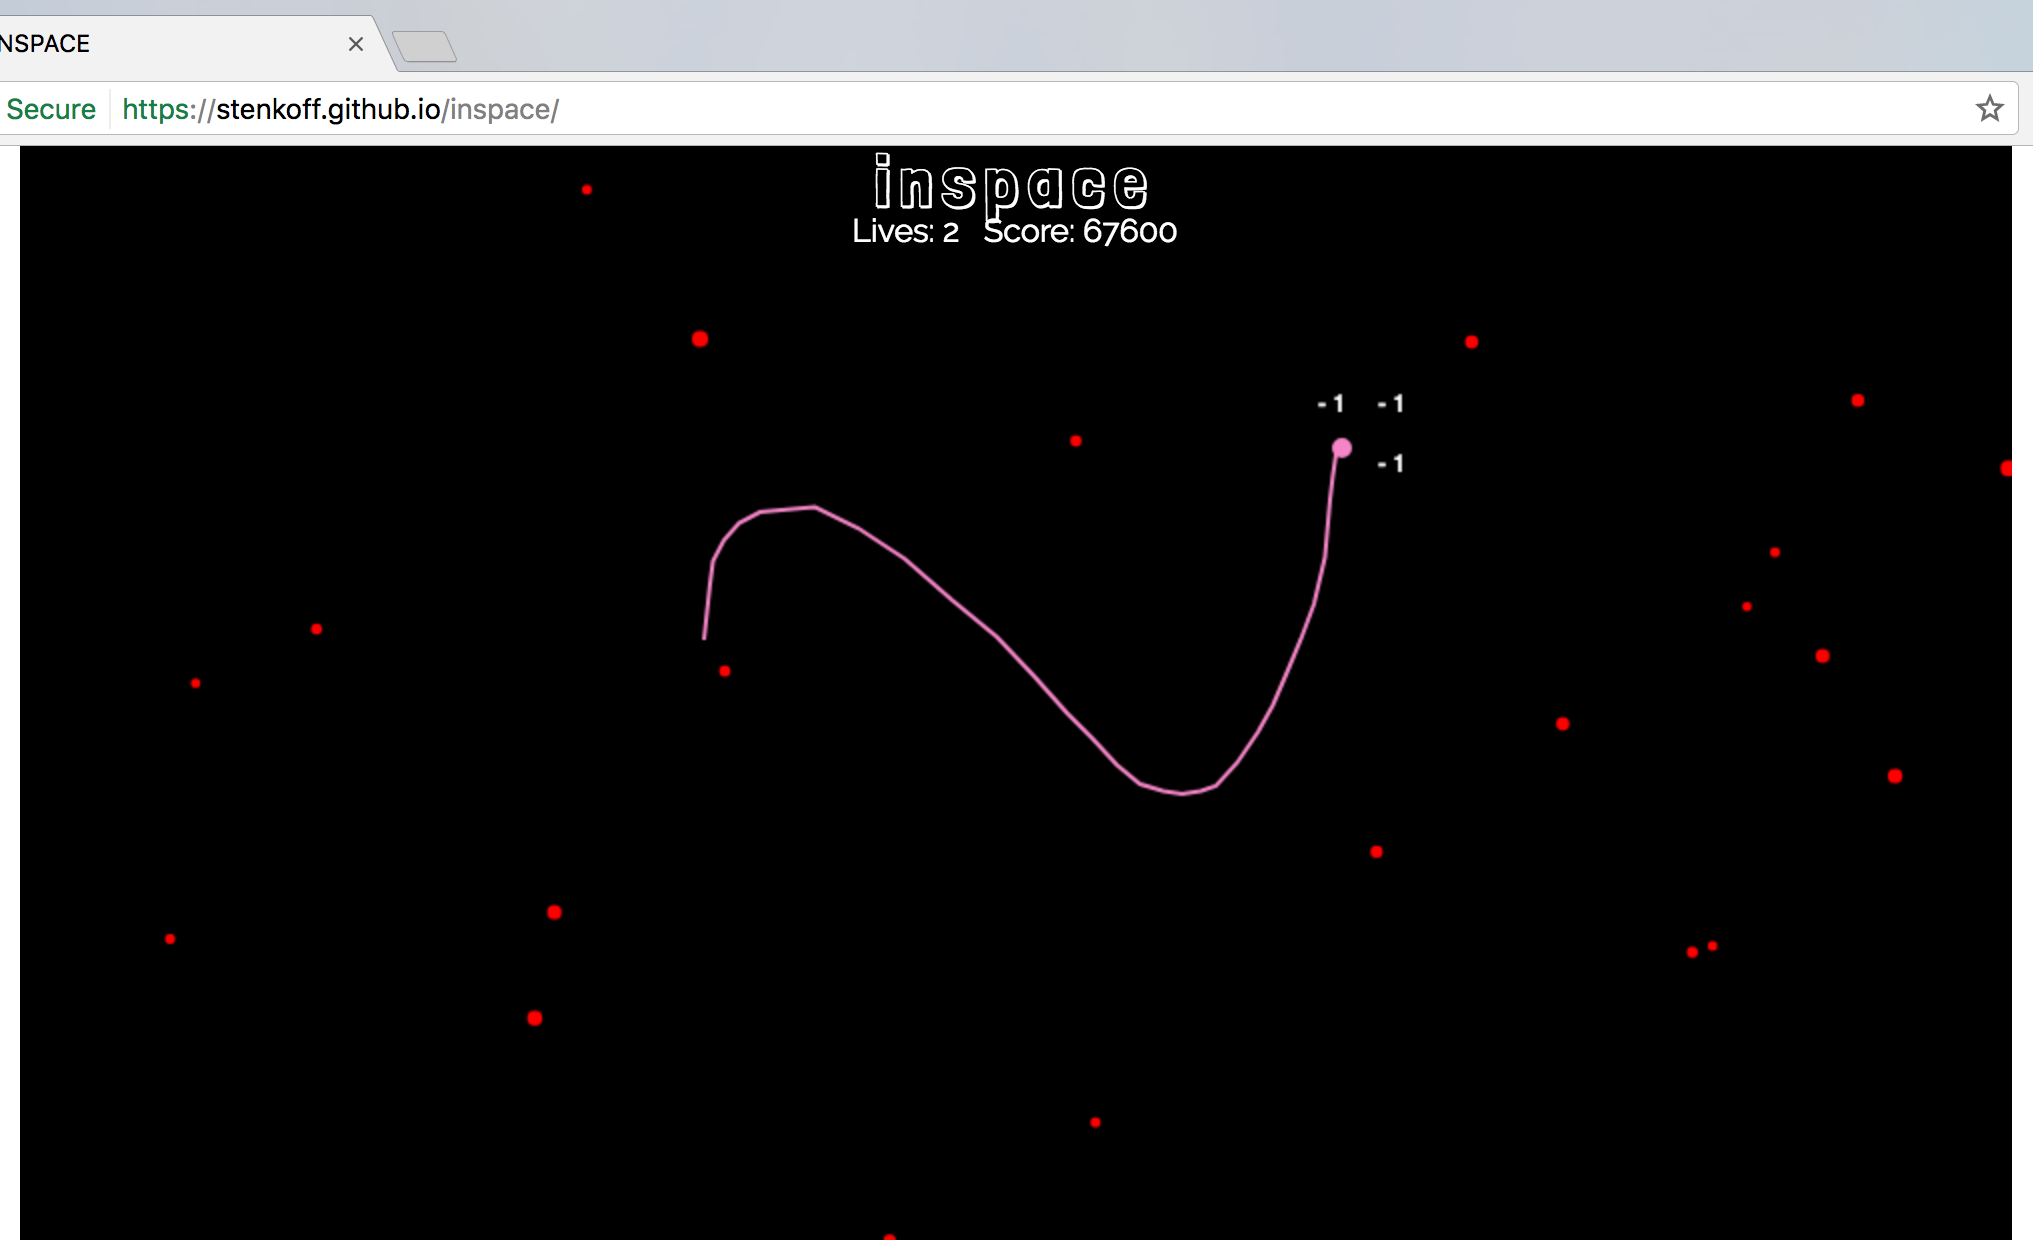
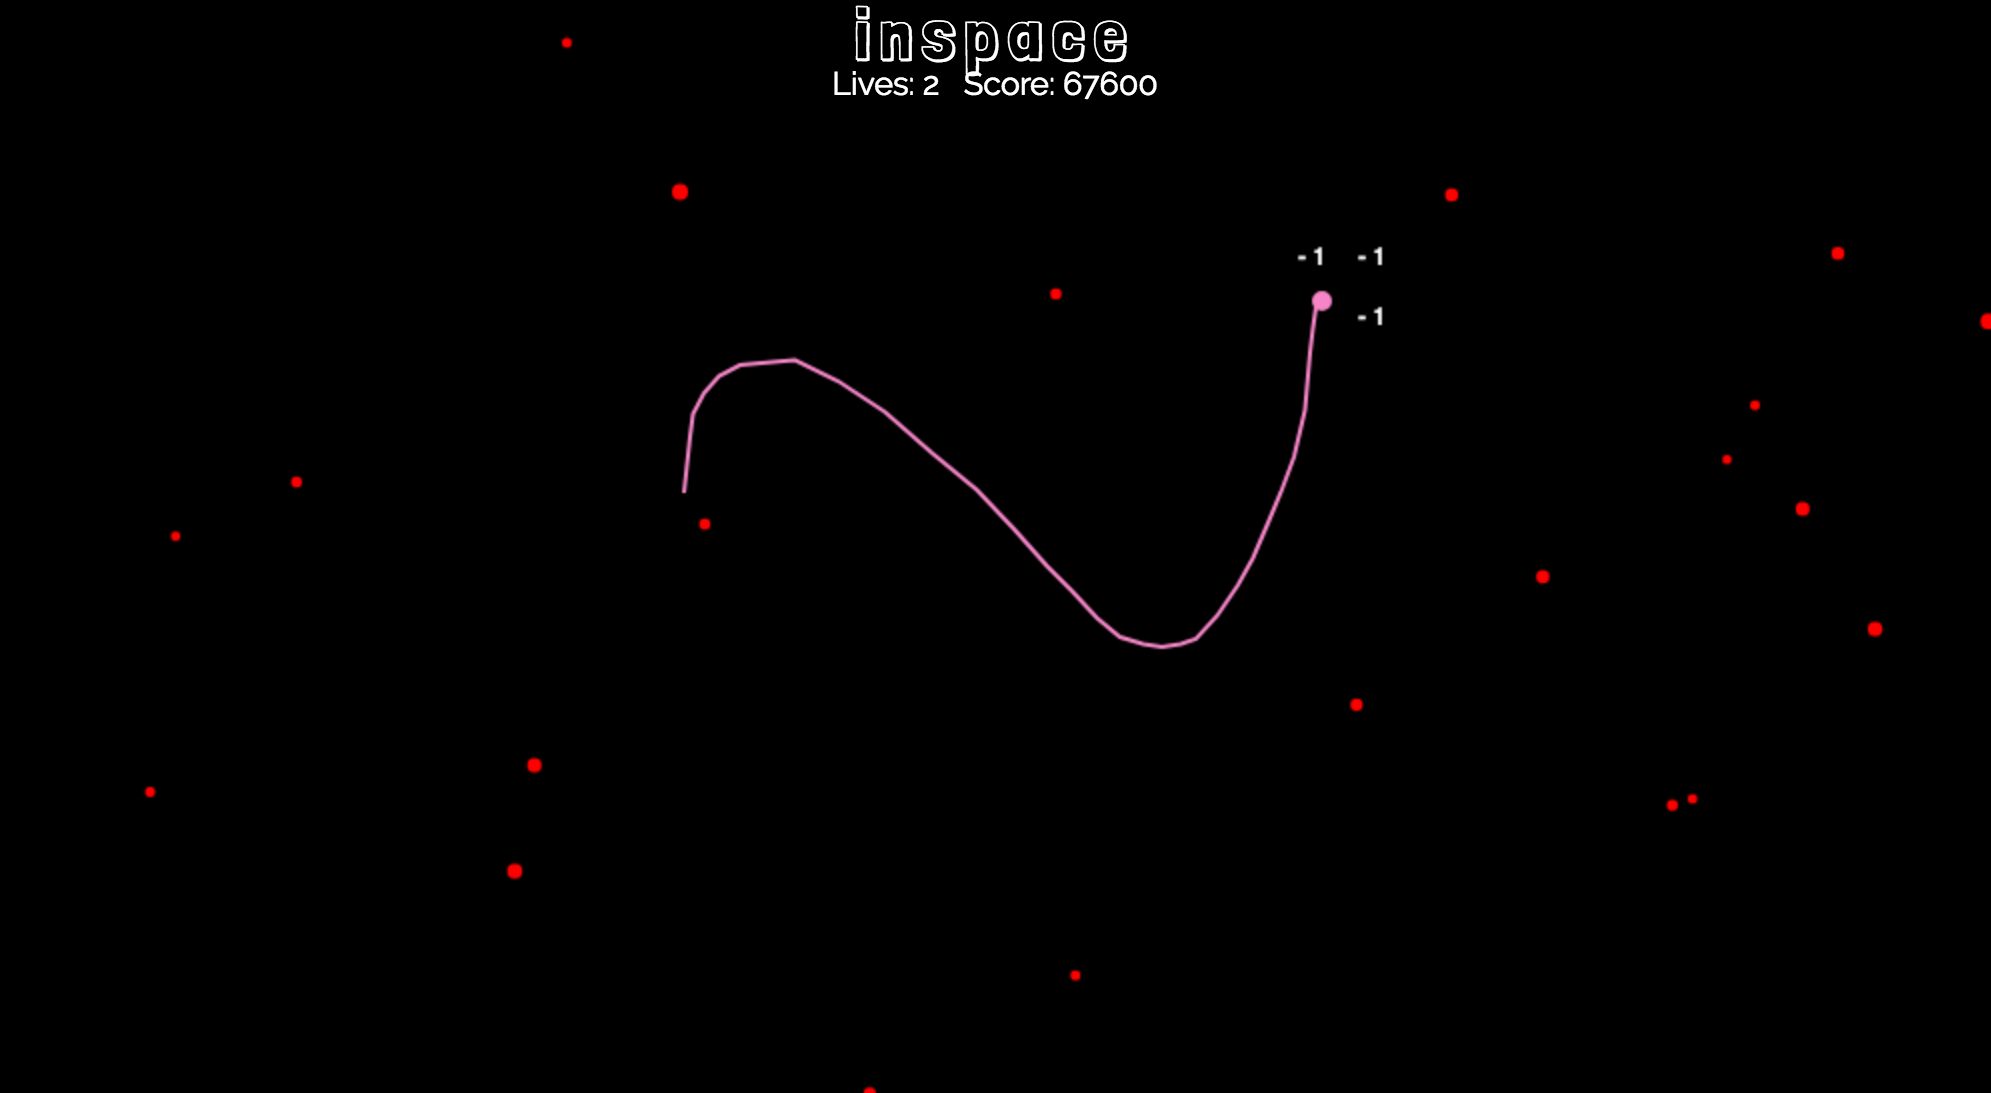
Crop image and update readme

diff --git a/README.md b/README.md
@@ -1,30 +1,29 @@
-## Inspace
+# Inspace
 [Live!](https://stenkoff.github.io/inspace/)
 
-### Background
-Inspace is a browser game inspired by the game Sinuous built entirely with JavaScript, HTML and CSS through object oriented programming. The goal of the game is to stay alive as long as possible in order to achieve a high score. Players can stay alive by avoiding collisions with the red dots. Players can capture other colored dots to get temporary power boosts, such as slowing the speed of the red dots.
+Inspace is an object-oriented browser game inspired by the game Sinuous built entirely with JavaScript, HTML and CSS. The goal of the game is to stay alive as long as possible in order to achieve a high score. Players can stay alive by avoiding collisions with the red dots. Players can capture other colored dots to get temporary power boosts, such as slowing the speed of the red dots.
 
 ![inspace](./assets/images/inspace.png)
 
-### Features
+## Features & Implementation
 
-#### Canvas
+### Canvas
 Inspace utilizes HTML5 canvas for precise pixel control and successful object rendering
 
 ![canvas](./assets/images/canvas.png)
 ![draw](./assets/images/canvas_draw.png)
 
-#### Collision Detection
+### Collision Detection
 Using HTML5 canvas and the distance formula, the game successfully checks for collisions between two dots by calculating the distance between those dots and determining if that distance is less than the sum of the dots' radii
 
 ![collision](./assets/images/collision.png)
 
-#### Mouse Position
-Inspace employs an event listener on the mouse to track and set the player's position based on the current mouse coordinates
+### Mouse Position
+Inspace uses an event listener on the mouse to track and set the player's position based on the current mouse coordinates
 
 ![position](./assets/images/player_pos.png)
 
-#### High Score
-The game keeps track of a high score using local storage, so the player's high score is saved during the browser session even if the browser is refreshed
+### High Score
+The game keeps track of a high score using local storage so the player's high score is saved during the browser session even if the browser is refreshed
 
 ![high-score](./assets/images/high_score.png)
